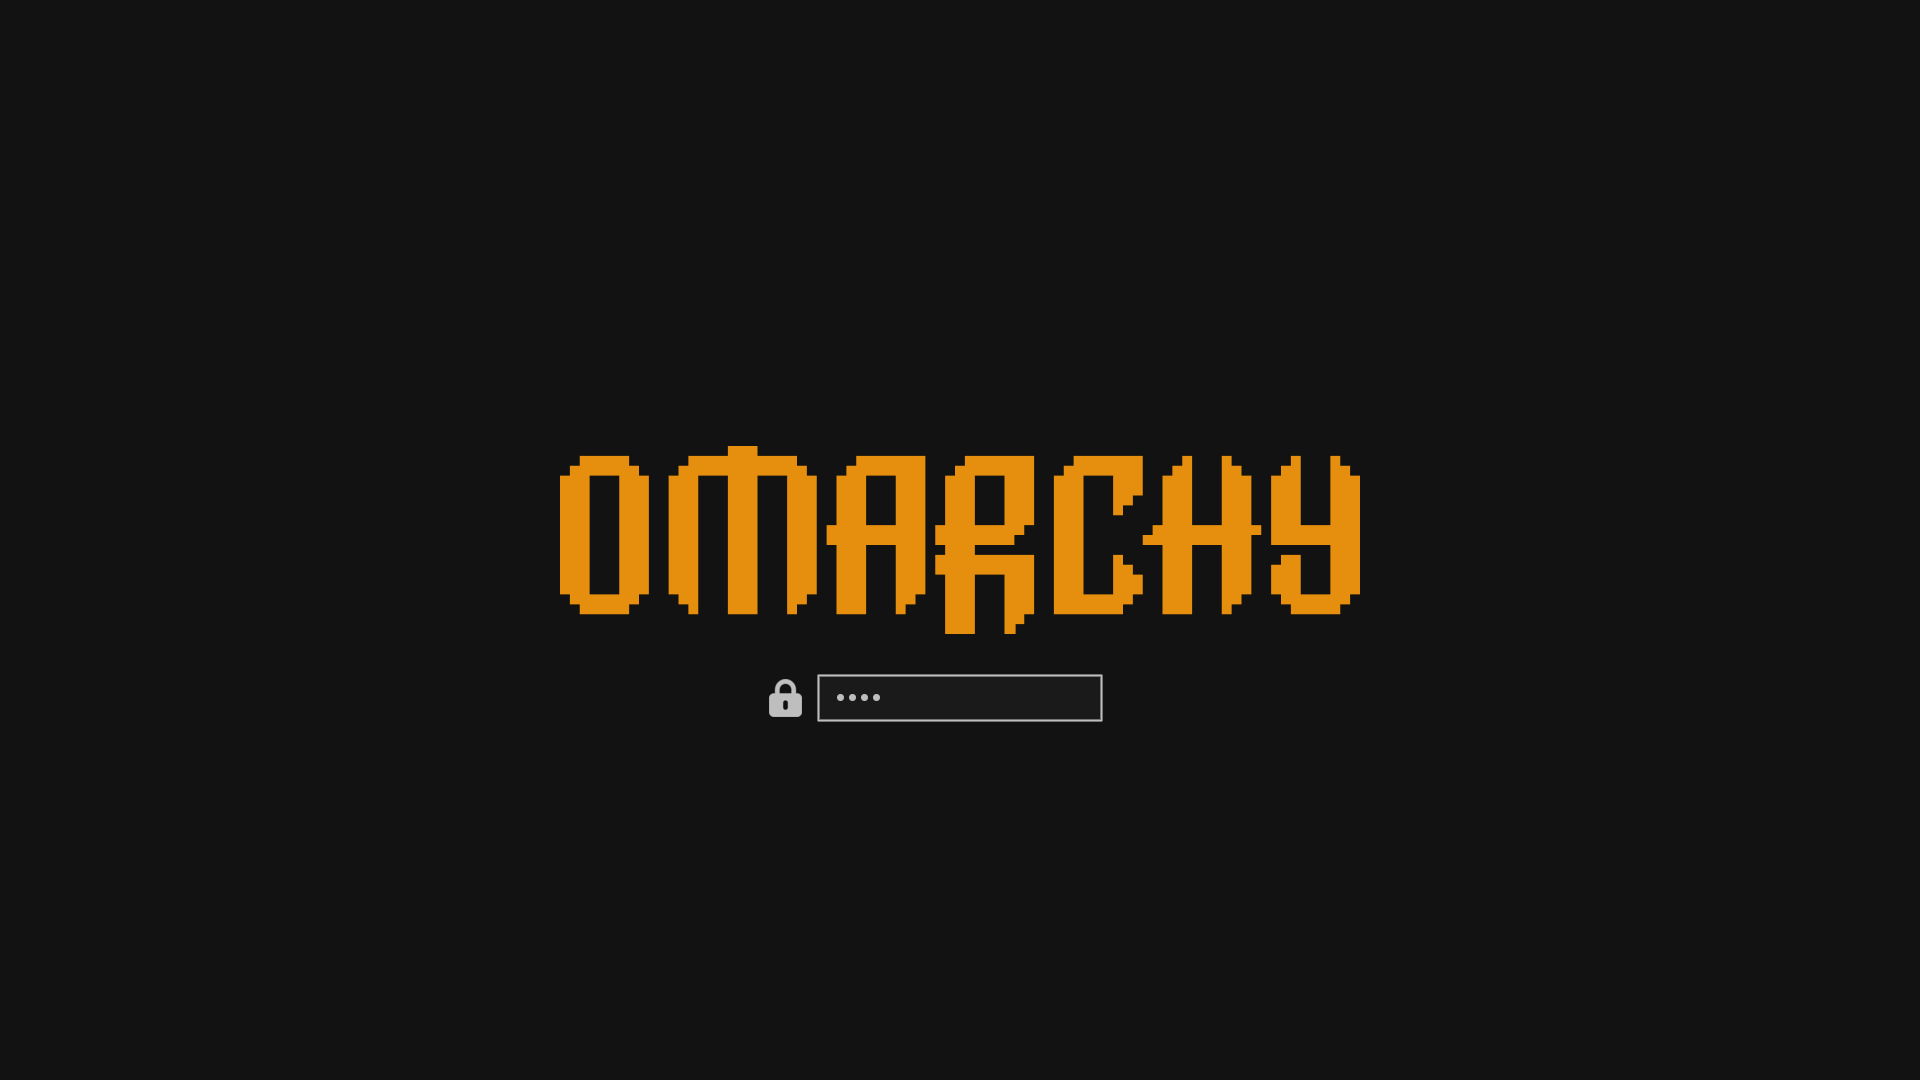
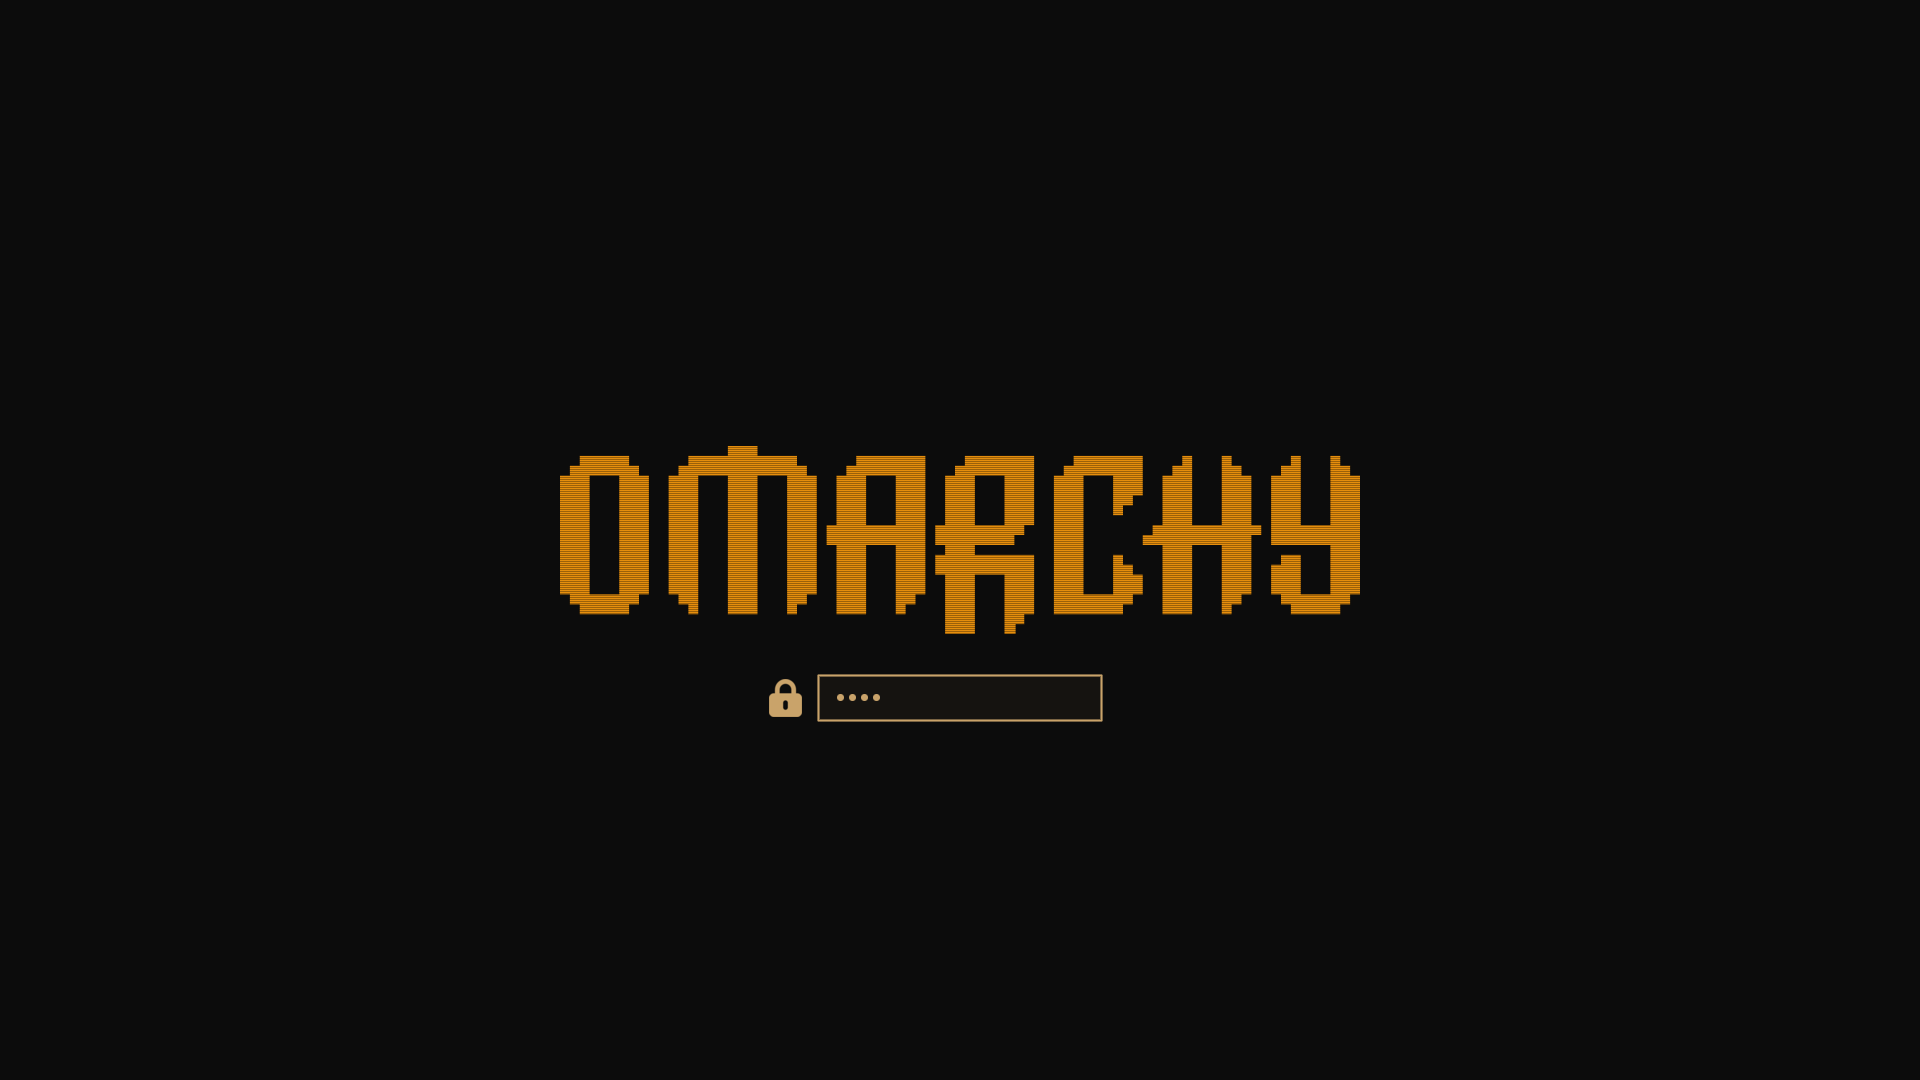
migrate theme to Omarchy 4.0
Switch colors.toml to the semantic palette, add lock-screen and
workspace overrides, refresh unlock and desktop previews, and
drop unused waybar.css and hyprland.conf.

Changed region(s): [[0.2812, 0.3972, 0.7188, 0.5806], [0.375, 0.6111, 0.4688, 0.6722]]

diff --git a/bar/workspaces.qml b/bar/workspaces.qml
@@ -1,0 +1,78 @@
+import QtQuick
+import QtQuick.Layouts
+import Quickshell.Hyprland
+import qs.Commons
+import qs.Ui
+
+// Theme override of omarchy.workspaces.
+// Stock 4.0 only swaps the focused glyph; this restores the old waybar.css
+// role: active and urgent workspace markers use the theme accent.
+BarWidget {
+  id: root
+  moduleName: "omarchy.workspaces"
+
+  function workspaceById(id) {
+    var values = Hyprland.workspaces.values
+    for (var i = 0; i < values.length; i++) {
+      if (values[i].id === id) return values[i]
+    }
+
+    return null
+  }
+
+  function workspaceIds() {
+    var ids = [1, 2, 3, 4, 5]
+    var values = Hyprland.workspaces.values
+
+    for (var i = 0; i < values.length; i++) {
+      var id = values[i].id
+      if (id > 0 && id <= 10 && ids.indexOf(id) === -1) ids.push(id)
+    }
+
+    ids.sort(function(left, right) { return left - right })
+    return ids
+  }
+
+  function focusWorkspace(id) {
+    if (!root.bar) return
+    root.bar.run("hyprctl dispatch " + Util.shellQuote("hl.dsp.focus({ workspace = \"" + id + "\" })"))
+  }
+
+  readonly property real trailingGap: root.vertical ? 0 : Style.spaceReal(1.5)
+
+  implicitWidth: grid.implicitWidth + trailingGap
+  implicitHeight: grid.implicitHeight
+
+  GridLayout {
+    id: grid
+    anchors.fill: parent
+    anchors.rightMargin: root.trailingGap
+    columns: root.vertical ? 1 : root.workspaceIds().length
+    columnSpacing: root.vertical ? 0 : Style.space(1)
+    rowSpacing: root.vertical ? Style.space(2) : 0
+
+    Repeater {
+      model: root.workspaceIds()
+
+      WidgetButton {
+        required property int modelData
+
+        readonly property var workspace: root.workspaceById(modelData)
+        readonly property bool occupied: workspace !== null && workspace.toplevels.values.length > 0
+        readonly property bool focused: Hyprland.focusedWorkspace !== null && Hyprland.focusedWorkspace.id === modelData
+        readonly property bool urgent: workspace !== null && workspace.urgent === true
+
+        bar: root.bar
+        text: focused ? "\uDB85\uDCFB" : (modelData === 10 ? "0" : String(modelData))
+        active: focused || urgent
+        activeColor: Color.accent
+        opacity: occupied || focused || urgent ? 1 : 0.5
+        horizontalMargin: 6
+        verticalPadding: 6
+        fixedWidth: root.vertical ? root.barSize : Style.space(20)
+        fixedHeight: root.barSize
+        onPressed: function() { root.focusWorkspace(modelData) }
+      }
+    }
+  }
+}

diff --git a/README.md b/README.md
@@ -4,50 +4,43 @@
 
 Inspired by classic amber phosphor CRT terminals (old Wyse, DEC, IBM 5151-style monitors). Deep warm-black background, soft glowing amber text, and a single bright accent (#e68e0d) used for the most intense highlights — exactly like an old amber monitor at night.
 
-![unlock preview](preview-unlock.png)
+![Amber Monochrome theme preview](preview.png)
+
+![Lock screen preview](preview-unlock.png)
 
 ## Design Goals
 
 - **Retro CRT aesthetic**: Very dark warm-black background (#0c0c0c) that feels like old CRT glass with slight phosphor haze.
 - **Amber phosphor text**: Main foreground is a soft glowing amber (#c9a36a), not cool gray or pure white. This is the characteristic "lit phosphor" look.
-- **Single bright accent** (`#e68e0d`): Kept exactly as the punchy, saturated highlight color for selections, keyboard shortcuts, cursor glow, graph peaks, and bright UI elements. This is the "full intensity" part of the phosphor.
-- **Strict amber family only**: The entire 16-color ANSI palette lives in black → dark amber-brown → golden → bright amber. No cool grays, no blues, no saturated reds. "Red" positions are mapped to dim warm browns that still read as alerts on an amber screen.
+- **Single bright accent** (`#e68e0d`): Kept exactly as the punchy, saturated highlight color for selections, keyboard shortcuts, graph peaks, and bright UI elements. This is the "full intensity" part of the phosphor.
+- **Strict amber family only**: The semantic palette lives in black → dark amber-brown → golden → bright amber. No cool grays, no blues, no saturated reds. "Red" positions are mapped to dim warm browns that still read as alerts on an amber screen.
 
 ## Color Palette
 
 | Role                    | Color                  | Hex       |
 |-------------------------|------------------------|-----------|
 | Accent / Bright highlights | Punchy amber (exact) | `#e68e0d` |
-| Cursor                  | Glowing bright amber   | `#f5d48a` |
 | Foreground (main text)  | Soft phosphor amber    | `#c9a36a` |
+| Bright foreground       | Full-intensity phosphor | `#f8e8c0` |
 | Background              | Deep CRT black         | `#0c0c0c` |
-| Selection background    | Dim lit phosphor area  | `#2a1f12` |
-| Selection foreground    | Bright warm            | `#f0d090` |
+| Selection               | Dim lit phosphor area  | `#2a1f12` |
 
-### Terminal ANSI (colors 0-15)
-
-Fully mapped to the amber phosphor family:
-
-- Blacks (0, 8): deep warm blacks (`#1a120c`, `#251a12`)
-- "Reds" (1, 3, 5, 9, 11, 13): dark-to-mid amber-browns (`#7a4a28` … `#a07048`) — low saturation, still feels "alert" on old monitors
-- "Yellows" / brights (2, 4, 10, 12): golden to the exact accent `#e68e0d` and its bright variant `#f5a630`
-- "Cyans/Magentas" (6, 13, 14): warm amber-grays
-- Bright text (7, 15): soft to very bright phosphor (`#c9a36a` → `#f8e8c0`)
-
-The result feels like the whole terminal is being rendered on a single old amber CRT tube.
+Omarchy 4.0 generates terminal ANSI colors from this semantic palette. The whole set stays in the amber phosphor family.
 
 ## Theme Files
 
-- `colors.toml` — Terminal + system colors (core retro CRT palette)
-- `btop.theme` — btop++ styled with warm brown boxes + bright amber data highlights
-- `icons.theme` — Yaru-red (subtle warmth)
-- `neovim.lua` — Neovim base (matteblack.nvim as starting point; real phosphor look would need a dedicated amber colorscheme)
-- `vscode.json` — VS Code recommendation
+- `colors.toml` — Omarchy 4.0 semantic palette
+- `shell.lock.toml` — Lock-screen chrome (amber borders)
+- `bar/workspaces.qml` — Active/urgent workspace markers use accent
+- `btop.theme` — Warm brown boxes + bright amber data highlights
+- `icons.theme` — Yaru-dark
+- `neovim.lua` — Neovim base (matteblack.nvim)
+- `vscode.json` — VS Code recommendation (Matte Black)
 - `keyboard.rgb` — RGB keyboard uses the accent (`e68e0d`)
 - `unlock.png` — Solid bright amber (lock screen shape)
+- `preview.png` — Desktop preview
 - `preview-unlock.png` — Lock screen preview
 - `backgrounds/` — Dark moody wallpapers (from original Matte Black)
-- `preview.png` — Desktop preview (update this after applying the new palette)
 
 ## Installation
 
@@ -55,17 +48,4 @@ The result feels like the whole terminal is being rendered on a single old amber
 omarchy theme install https://github.com/chorr/omarchy-amber-monochrome-theme.git
 ```
 
-Local development / testing:
-
-```bash
-mkdir -p ~/.config/omarchy/themes/amber-monochrome
-cp -r ~/workspace/omarchy-amber-monochrome-theme/* ~/.config/omarchy/themes/amber-monochrome/
-omarchy theme set amber-monochrome
-omarchy restart terminal
-```
-
-## Credits
-
-- Original structure & wallpapers: Matte Black by [tahayvr](https://github.com/tahayvr)
-- Retro CRT amber inspiration: classic phosphor terminal aesthetics (Wyse, DEC VT, IBM 5151 amber variants)
-- Omarchy theme system: [Omarchy](https://omarchy.org/)
+After editing a local checkout, apply with `omarchy theme set amber-monochrome` or `omarchy theme refresh`. A symlink from `~/.config/omarchy/themes/<name>` to the working copy is enough for iteration.

diff --git a/AGENTS.md b/AGENTS.md
@@ -1,47 +1,61 @@
 # Amber Monochrome Theme
 
-Custom Omarchy theme project — Retro CRT amber phosphor monochrome style.
+Custom Omarchy theme — retro CRT amber phosphor monochrome.
 
-## Scope
+## Design Concept
 
-This repository contains only theme assets for Omarchy:
+- Background is deep warm-black (`#0c0c0c`), like old CRT glass
+- Main text is soft glowing amber (`#c9a36a`)
+- Single fixed accent (`#e68e0d`) is reserved for the brightest highlights: selections, shortcuts, graph peaks, workspace markers
+- Every semantic color stays in the black → dark amber-brown → golden amber → bright amber family
+- No cool grays or unrelated hues
 
-- Color definitions (`colors.toml`)
-- Application themes (btop, icons, Neovim, VS Code)
-- Wallpapers and lock screen assets
-- Metadata for `omarchy theme install`
+## Color Palette
 
-## Development Notes
+| Role | Color | Hex |
+|------|-------|-----|
+| Accent | brightest phosphor highlight, `blue` | `#e68e0d` |
+| Selection | dim lit phosphor area | `#2a1f12` |
+| Foreground | main phosphor text | `#c9a36a` |
+| Bright foreground | full-intensity phosphor | `#f8e8c0` |
+| Background | deep CRT black | `#0c0c0c` |
+| Muted | comments, inactive | `#5f4635` |
 
-- The theme is installed by cloning this repo into `~/.config/omarchy/themes/amber-monochrome/`
-- After changes to source here, either:
-  - Re-clone / rsync to the installed location, or
-  - Run `omarchy theme set amber-monochrome` after manually syncing
-- `omarchy theme refresh` or full `omarchy refresh` may be needed for some components (waybar, etc.)
-- Previews (`preview.png`, `preview-unlock.png`) should be updated when the visual identity changes significantly.
+## Color Rules
 
-## Retro CRT Concept
+- Accent is the only high-saturation highlight
+- "Red" slots stay dim amber-brown so alerts still read on an amber tube
+- Yellow/green/cyan are golden or warm-amber variants, not cool hues
+- Omarchy 4.0 maps terminal/editor cursor to `bright_foreground`; do not rely on a `cursor` key
+- Active Hyprland border uses the accent at 45deg via `hyprland_active_border`
 
-The palette is designed to feel like an old amber phosphor CRT terminal:
+## Theme Files
 
-- Background is deep warm-black (#0c0c0c) — like the dark glass of a classic monitor.
-- Main text uses soft glowing amber (#c9a36a) — the characteristic lit phosphor look.
-- The single fixed accent (#e68e0d) is reserved for the brightest, most intense highlights (selections, shortcuts, graph peaks, cursor). This mimics the "full brightness" part of the phosphor when the beam is strongest.
-- Every color in the 16-color ANSI set stays inside the black → dark amber-brown → golden amber → bright amber family. There are no cool grays or unrelated hues.
+- `colors.toml` - Omarchy 4.0 semantic palette (source of truth for generated app configs)
+- `shell.lock.toml` - Lock-screen chrome override (amber borders)
+- `bar/workspaces.qml` - 4.0 bar override: focused/urgent workspace markers use `accent`
+- `btop.theme` - btop override to keep the CRT amber graph ramp
+- `neovim.lua` - Neovim colorscheme (matteblack)
+- `vscode.json` - VS Code theme (Matte Black)
+- `keyboard.rgb` - Keyboard RGB color
+- `icons.theme` - Icon theme (Yaru-dark)
+- `unlock.png` - Lock-screen shape asset
+- `preview.png` - Desktop preview
+- `preview-unlock.png` - Lock-screen preview image
+- `backgrounds/` - Wallpapers
 
-This creates a cohesive "everything is rendered on one old amber tube" feeling.
+## Local Development
 
-## Useful Commands (on target machine)
+Omarchy 4.0 copies the theme into `~/.local/state/omarchy/current/theme` and generates app configs from `colors.toml`. After editing theme files, run `omarchy theme refresh` (or `omarchy theme set <name>`). Saving a file is not enough.
 
-```bash
-omarchy theme list
-omarchy theme current
-omarchy theme set amber-monochrome
-omarchy theme bg next
-omarchy restart waybar
-omarchy restart terminal
-```
+A symlink from `~/.config/omarchy/themes/<name>` to a working copy is enough for iteration. `omarchy theme update` skips symlinks.
 
-## License
+`bar/workspaces.qml` is a custom bar widget. To use it, point the `omarchy.workspaces` entry in `~/.config/omarchy/shell.json` at that file with `type = "qml"`.
 
-See upstream Matte Black and Omarchy for asset origins. Theme-specific configuration is provided under the same terms as the Omarchy project unless otherwise noted.
+## Public Repository
+
+This repo is public. Keep committed docs and messages useful to any reader, not just this machine.
+
+- Do not commit host-specific paths, clone names, or "this machine" setup
+- Describe workflows in generic terms so they apply to anyone installing or developing the theme
+- Commit messages follow the existing English history; do not mention local checkout layout or unpublished machine state
